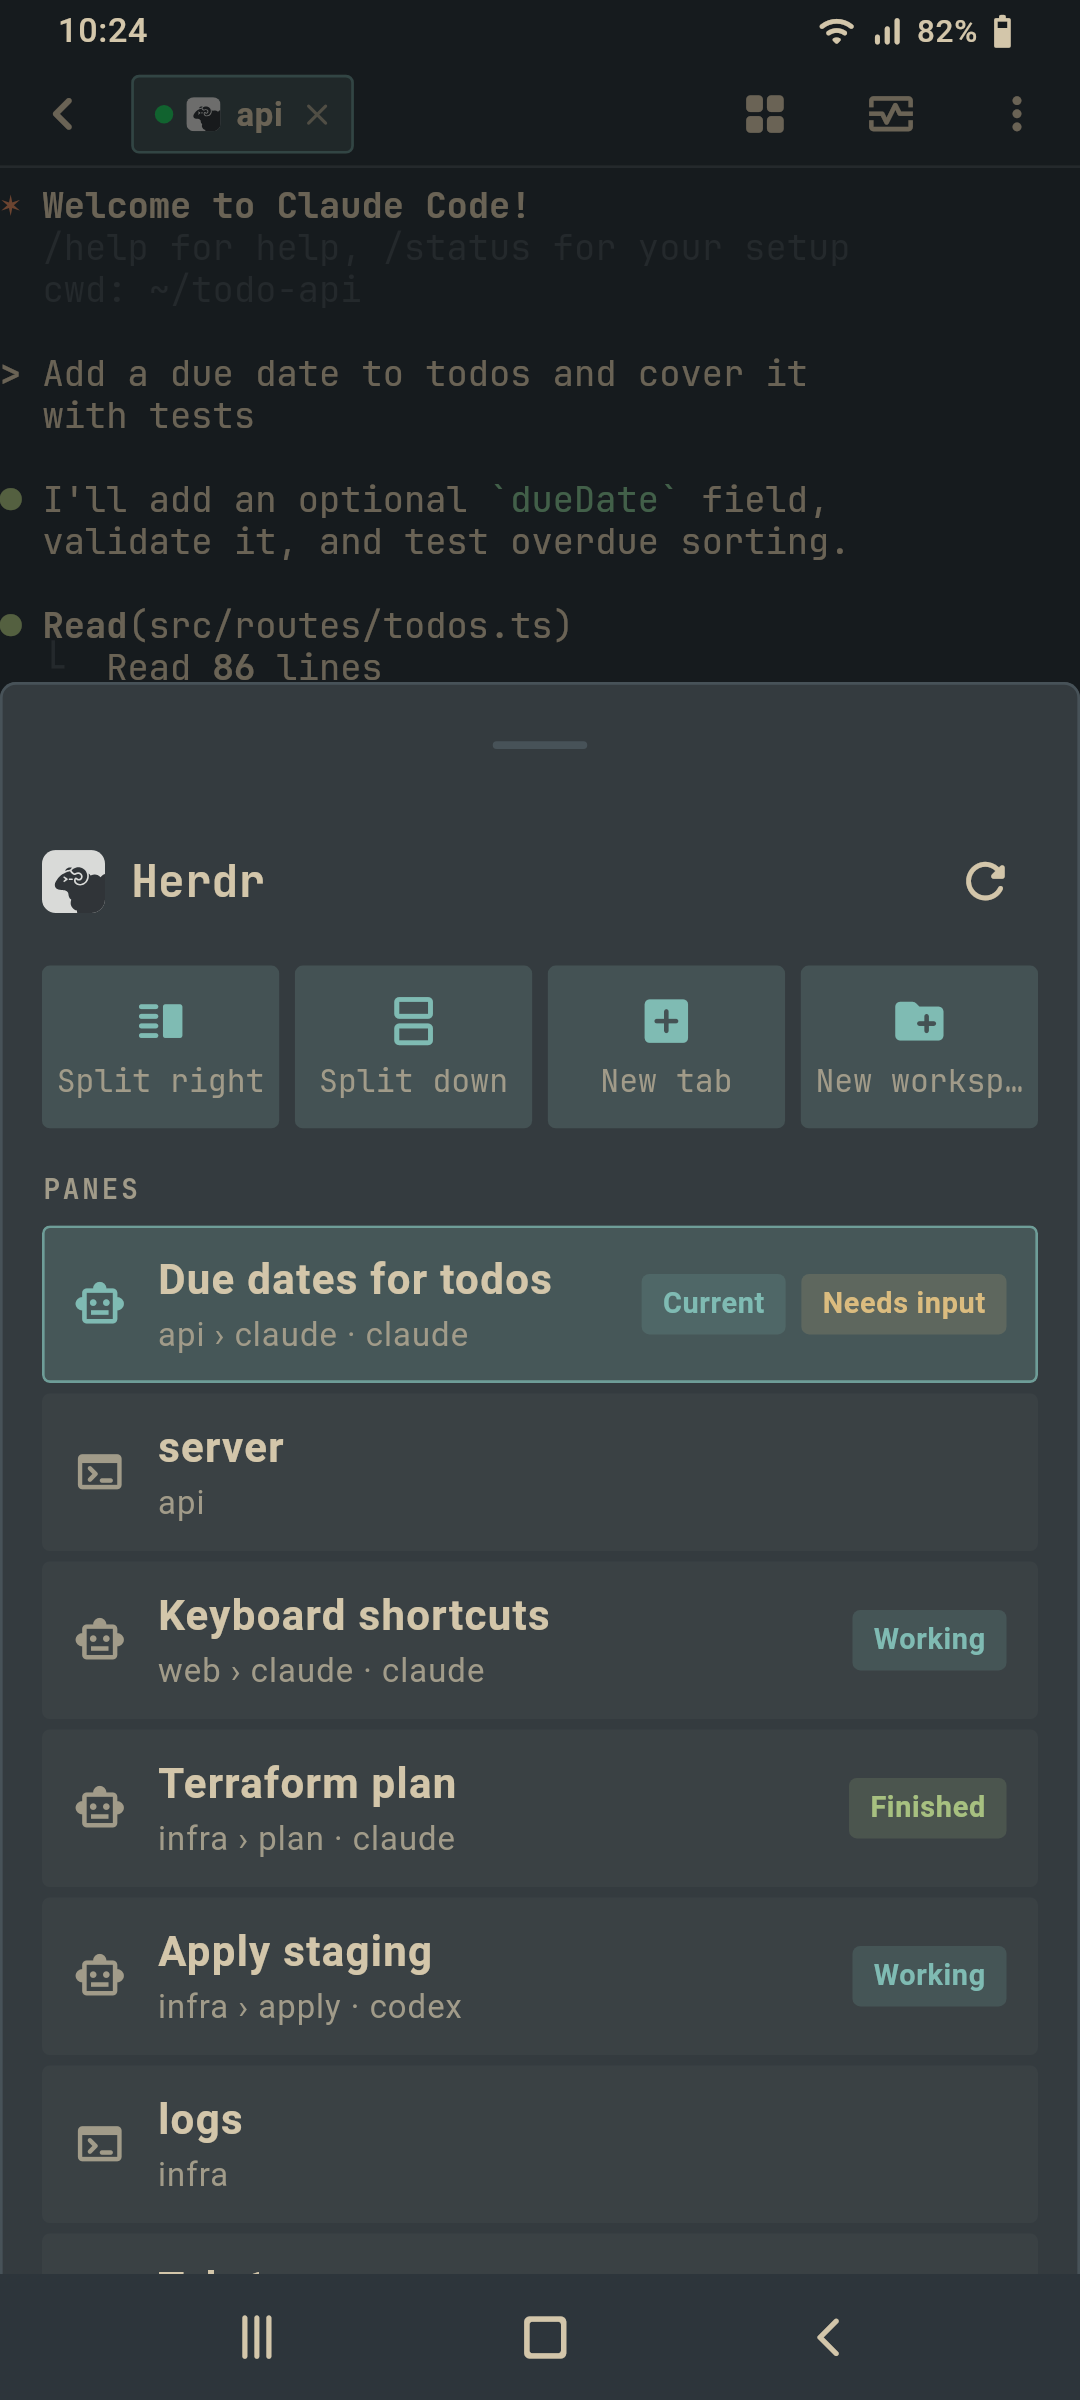
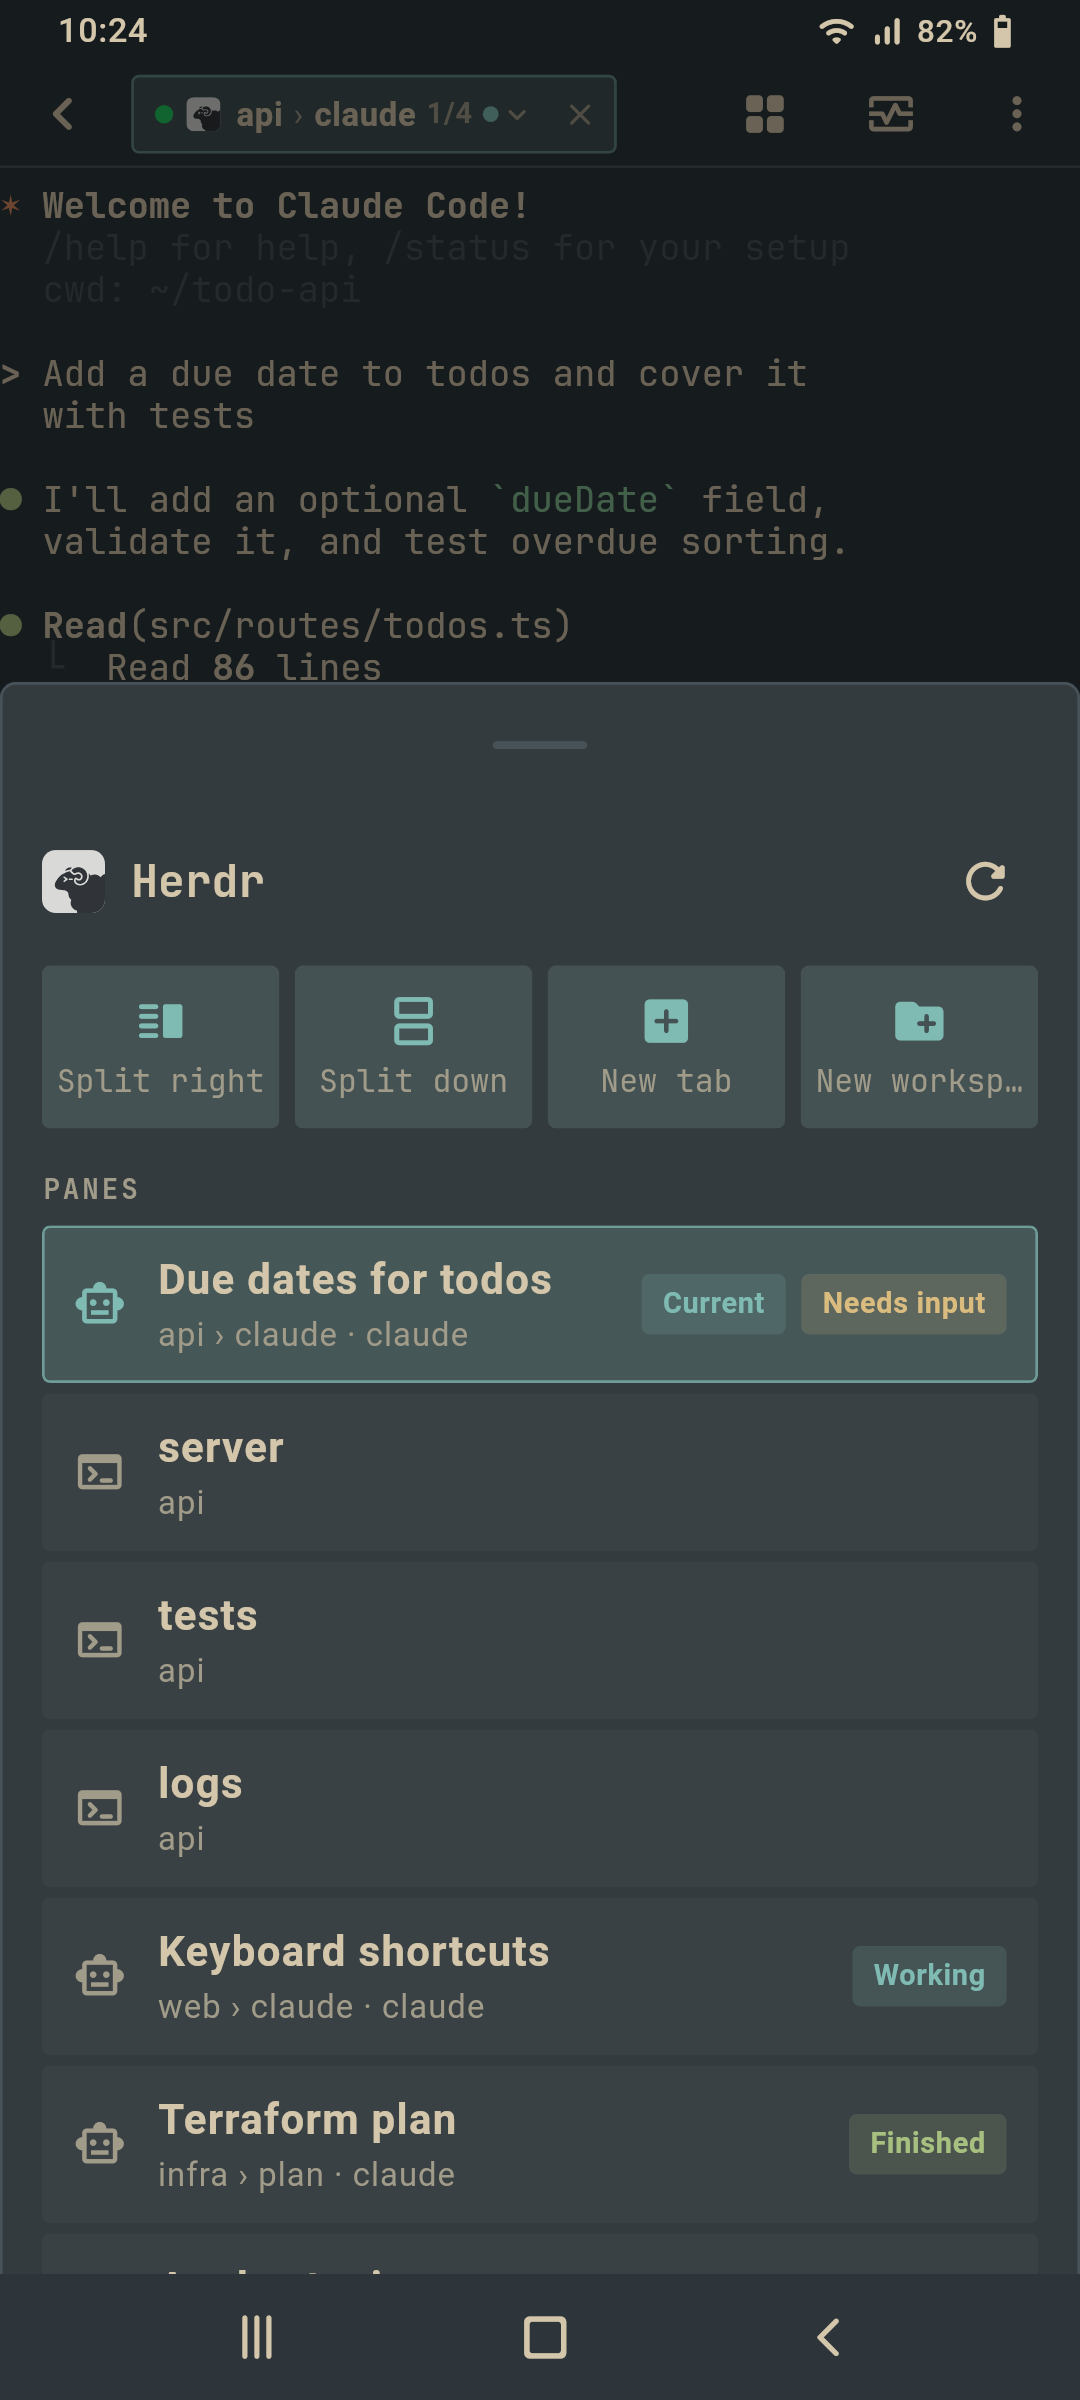
docs: screenshots for preview 13
Re-renders every README screenshot against the current UI and adds
Settings (phone and two-pane desktop), the compact Herdr tab label and
tab list, the desktop tab actions popover, This computer in the machine
list and the connect picker as a centred dialog. Shots are captured with
real shadows instead of flutter_test's black outlines.

diff --git a/test/screenshots/readme_screenshots_test.dart b/test/screenshots/readme_screenshots_test.dart
@@ -5,7 +5,7 @@ import 'dart:async';
 import 'dart:convert';
 import 'dart:io';
 
-import 'package:conduit/core/presentation/theme_sheet.dart';
+import 'package:conduit/core/presentation/adaptive_modal.dart';
 import 'package:conduit/core/theme/app_palette.dart';
 import 'package:conduit/core/theme/theme_controller.dart';
 import 'package:conduit/core/theme/theme_preferences_repository.dart';
@@ -45,6 +45,7 @@ import 'package:conduit/features/terminal/presentation/host_key_prompt_coordinat
 import 'package:conduit/features/terminal/presentation/terminal_page.dart';
 import 'package:conduit/features/terminal/presentation/terminal_session_controller.dart';
 import 'package:conduit/features/terminal/presentation/terminal_workspace_controller.dart';
+import 'package:conduit/features/this_computer/domain/this_computer_settings.dart';
 import 'package:conduit/features/voice/presentation/dictation_controller.dart';
 import 'package:conduit/features/voice/presentation/voice_settings_scope.dart';
 import 'package:flutter/foundation.dart';
@@ -91,7 +92,7 @@ final buildBox = SavedHost(
 const workstationWorkspaces =
     '{"id":"1","result":{"workspaces":['
     '{"workspace_id":"w1","label":"api","number":1,'
-    '"agent_status":"blocked","focused":true,"tab_count":2,'
+    '"agent_status":"blocked","focused":true,"tab_count":4,'
     '"active_tab_id":"w1:t1"},'
     '{"workspace_id":"w2","label":"web","number":2,'
     '"agent_status":"working","tab_count":1,"active_tab_id":"w2:t1"},'
@@ -100,15 +101,34 @@ const workstationWorkspaces =
     '{"workspace_id":"w4","label":"docs","number":4,'
     '"agent_status":"idle","tab_count":1,"active_tab_id":"w4:t1"}]}}';
 
+/// `herdr tab list` (Herdr 0.9.1 shape): api has four tabs, claude focused.
 const workstationTabs =
     '{"id":"2","result":{"tabs":['
-    '{"tab_id":"w1:t1","workspace_id":"w1","label":"claude","number":1},'
-    '{"tab_id":"w1:t2","workspace_id":"w1","label":"server","number":2},'
-    '{"tab_id":"w2:t1","workspace_id":"w2","label":"claude","number":1},'
-    '{"tab_id":"w3:t1","workspace_id":"w3","label":"plan","number":1},'
-    '{"tab_id":"w3:t2","workspace_id":"w3","label":"apply","number":2},'
-    '{"tab_id":"w3:t3","workspace_id":"w3","label":"logs","number":3},'
-    '{"tab_id":"w4:t1","workspace_id":"w4","label":"","number":1}]}}';
+    '{"tab_id":"w1:t1","workspace_id":"w1","label":"claude","number":1,'
+    '"agent_status":"working","focused":true,"pane_count":1},'
+    '{"tab_id":"w1:t2","workspace_id":"w1","label":"server","number":2,'
+    '"agent_status":"idle","focused":false,"pane_count":1},'
+    '{"tab_id":"w1:t3","workspace_id":"w1","label":"tests","number":3,'
+    '"agent_status":"blocked","focused":false,"pane_count":2},'
+    '{"tab_id":"w1:t4","workspace_id":"w1","label":"logs","number":4,'
+    '"agent_status":"idle","focused":false,"pane_count":1},'
+    '{"tab_id":"w2:t1","workspace_id":"w2","label":"claude","number":1,'
+    '"agent_status":"working","focused":true,"pane_count":1},'
+    '{"tab_id":"w3:t1","workspace_id":"w3","label":"plan","number":1,'
+    '"agent_status":"done","focused":true,"pane_count":1},'
+    '{"tab_id":"w3:t2","workspace_id":"w3","label":"apply","number":2,'
+    '"agent_status":"working","focused":false,"pane_count":1},'
+    '{"tab_id":"w3:t3","workspace_id":"w3","label":"logs","number":3,'
+    '"agent_status":"idle","focused":false,"pane_count":1},'
+    '{"tab_id":"w4:t1","workspace_id":"w4","label":"","number":1,'
+    '"agent_status":"idle","focused":true,"pane_count":1}]}}';
+
+/// Herdr on This computer: one workspace, "notes".
+const thisComputerWorkspaces =
+    '{"id":"1","result":{"workspaces":['
+    '{"workspace_id":"w1","label":"notes","number":1,'
+    '"agent_status":"idle","focused":true,"tab_count":1,'
+    '"active_tab_id":"w1:t1"}]}}';
 
 const workstationAgents =
     '{"id":"3","result":{"agents":['
@@ -363,9 +383,13 @@ void main() {
   }
 
   /// The home page: two Herdr sessions open, other workspaces listed.
+  SessionConnectFlow? homeFlow;
+
   Future<ThemeController> pumpHome(
     WidgetTester tester, {
     bool desktop = false,
+    bool thisComputer = false,
+    bool withFlow = false,
   }) async {
     if (desktop) {
       useDesktopView(tester);
@@ -375,7 +399,20 @@ void main() {
     final theme = await everforest();
     final repository = FakeHostsRepository()
       ..persisted = [workstation, buildBox];
-    final hostsController = HostsController(repository);
+    final hostsController = HostsController(
+      repository,
+      thisComputerStore: thisComputer
+          ? InMemoryThisComputerStore(
+              ThisComputerSettings(
+                // No agent polling timers in the screenshots.
+                host: SavedHost.thisComputer(
+                  hostname: 'devbox',
+                  username: 'demo',
+                ).copyWith(agentAttentionEnabled: false),
+              ),
+            )
+          : null,
+    );
     final workspace = TerminalWorkspaceController(DemoTerminalRepository());
     addTearDown(workspace.dispose);
     final agentAttention = AgentAttentionController(
@@ -393,12 +430,26 @@ void main() {
         tmuxSessions: tmuxLine('scratch', minutesAgo: 12),
       ),
       'build-box': HerdrFakeRunner.tmuxOnly(tmuxSessions: buildBoxTmux()),
+      thisComputerHostId: HerdrFakeRunner(
+        workspaces: thisComputerWorkspaces,
+        tabs: '{"result":{"tabs":[]}}',
+        agents: '{"result":{"agents":[]}}',
+        tmuxSessions: tmuxLine('dotfiles', minutesAgo: 30),
+      ),
     };
     final boards = HomeBoards(
       runnerFactory: (host) => runners[host.id]!,
       pollInterval: const Duration(days: 1),
     );
     addTearDown(boards.dispose);
+    homeFlow = withFlow
+        ? SessionConnectFlow(
+            hostsController: hostsController,
+            workspace: workspace,
+            runnerFactory: (host) => runners[baseHostId(host.id)]!,
+            preferences: InMemoryConnectPreferencesRepository(),
+          )
+        : null;
 
     await openDemoSession(
       tester,
@@ -442,6 +493,7 @@ void main() {
           fileExport: RecordingFileExport(),
           homeBoards: boards,
           homePreferences: InMemoryHomePreferencesRepository(),
+          connectFlow: homeFlow,
           previewRefreshInterval: const Duration(days: 1),
         ),
         systemBars: !desktop,
@@ -700,12 +752,11 @@ void main() {
     await tearDownPage(tester);
   });
 
-  testWidgets('07 appearance', (tester) async {
-    final theme = await pumpHome(tester);
-    final context = tester.element(find.byType(HostsPage));
-    unawaited(showThemeSheet(context: context, controller: theme));
+  testWidgets('07 settings', (tester) async {
+    await pumpHome(tester);
+    await tester.tap(find.byTooltip('Settings'));
     await pumpFrames(tester, 8);
-    await saveShot(tester, '07-appearance');
+    await saveShot(tester, '07-settings');
     await tearDownPage(tester);
   });
 
@@ -1046,5 +1097,79 @@ void main() {
     } finally {
       debugDefaultTargetPlatformOverride = null;
     }
+  });
+
+  /// Runs [body] as a Linux desktop.
+  Future<void> asDesktop(Future<void> Function() body) async {
+    debugDefaultTargetPlatformOverride = TargetPlatform.linux;
+    try {
+      await body();
+    } finally {
+      debugDefaultTargetPlatformOverride = null;
+    }
+  }
+
+  testWidgets('17 desktop settings', (tester) async {
+    await asDesktop(() async {
+      await pumpHome(tester, desktop: true);
+      await tester.tap(find.byTooltip('Settings'));
+      await pumpFrames(tester, 8);
+      await saveShot(tester, '17-desktop-settings', pixelRatio: 1);
+      await tearDownPage(tester);
+    });
+  });
+
+  testWidgets('18 herdr tabs', (tester) async {
+    await pumpTerminal(tester, withPrompt: false);
+    await tester.runAsync(pumpEventQueue);
+    await pumpFrames(tester);
+    await tester.tap(find.byKey(const ValueKey('mux-inline-label')));
+    await tester.runAsync(pumpEventQueue);
+    await pumpFrames(tester, 8);
+    await saveShot(tester, '18-herdr-tabs');
+    await tearDownPage(tester);
+  });
+
+  testWidgets('19 desktop tab popover', (tester) async {
+    await asDesktop(() async {
+      AdaptiveModalPointer.install();
+      await pumpTerminal(tester, withPrompt: false, desktop: true);
+      await tester.runAsync(pumpEventQueue);
+      await pumpFrames(tester);
+      await tester.longPress(find.byKey(const ValueKey('mux-tab-w1:t3')));
+      await pumpFrames(tester, 8);
+      await saveShot(tester, '19-desktop-tab-popover', pixelRatio: 1);
+      await tearDownPage(tester);
+    });
+  });
+
+  testWidgets('20 desktop this computer', (tester) async {
+    await asDesktop(() async {
+      await pumpHome(tester, desktop: true, thisComputer: true);
+      await tester.tap(find.byKey(const ValueKey('machine-name')));
+      await pumpFrames(tester, 8);
+      await saveShot(tester, '20-desktop-this-computer', pixelRatio: 1);
+      await tearDownPage(tester);
+    });
+  });
+
+  testWidgets('21 desktop connect dialog', (tester) async {
+    await asDesktop(() async {
+      await pumpHome(tester, desktop: true, withFlow: true);
+      final context = tester.element(find.byType(HostsPage));
+      unawaited(homeFlow!.connect(context, workstation, forcePicker: true));
+      await tester.runAsync(pumpEventQueue);
+      await pumpFrames(tester, 8);
+      await tester.tap(
+        find.descendant(
+          of: find.byKey(const ValueKey('adaptive-modal-dialog')),
+          matching: find.text('Herdr'),
+        ),
+      );
+      await tester.runAsync(pumpEventQueue);
+      await pumpFrames(tester, 8);
+      await saveShot(tester, '21-desktop-connect-dialog', pixelRatio: 1);
+      await tearDownPage(tester);
+    });
   });
 }

diff --git a/test/screenshots/screenshot_harness.dart b/test/screenshots/screenshot_harness.dart
@@ -219,6 +219,13 @@ Future<void> saveShot(
   String name, {
   double pixelRatio = shotPixelRatio,
 }) async {
+  // flutter_test draws elevation as a solid black outline; repaint with
+  // real shadows for the capture, then restore the test default.
+  debugDisableShadows = false;
+  for (final view in tester.binding.renderViews) {
+    view.reassemble();
+  }
+  await tester.pump();
   final boundary = tester.renderObject<RenderRepaintBoundary>(
     find.byKey(shotKey),
   );
@@ -230,6 +237,11 @@ Future<void> saveShot(
       ..createSync(recursive: true)
       ..writeAsBytesSync(bytes!.buffer.asUint8List());
   });
+  debugDisableShadows = true;
+  for (final view in tester.binding.renderViews) {
+    view.reassemble();
+  }
+  await tester.pump();
 }
 
 /// Pumps a few frames without waiting for spinners to settle.
